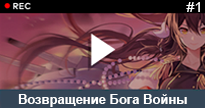
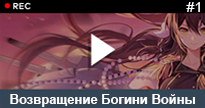
11
111

Changed region(s): [[0.0293, 0.8611, 0.9659, 1.0]]

diff --git a/the_war_god_return/index.html b/the_war_god_return/index.html
@@ -16,7 +16,7 @@
 <img src="../img/other/bbh.png" width="20" height="20" alt="bbh" class="on">
 На главную
 </a>    
-    <h1 class="title">Возвращение Бога Войны</h1>
+    <h1 class="title">Возвращение Богини Войны</h1>
     <img src="./img/head.png" alt=""><br>
     </div>
 </header>
@@ -30,7 +30,7 @@
 <div class="main">
 
 	 <div class="chapter" id="part1"> <!-- начало главы --> 
-  	<p class="title-1" >Возвращение Бога Войны</p>
+  	<p class="title-1" >Возвращение Богини Войны</p>
     <img class="pict1" src="../img/bg/bg10.png" alt="bg28p">
       <table class="mainchapter background11">			
       <tr>
@@ -73,6 +73,200 @@
       <td class="words blob"><p>Ой, извини! Это просто вырвалось у меня само собой... В любом случае, всем кораблям приготовиться к бою!</p></td>
     <td class="portgreen blob">Дзуйкаку<br><img src="../img/port/sakura/zuik1.png"  alt="Дзуйкаку"></td>
     </tr>
+    <tr>
+      <td class="port"></td>
+      <td class="words blob"><p>... ... ...</p></td>
+    <td class="port"></td>
+    </tr>
+    <tr>
+     <td class="portgreen blob">Атаго<br><img src="../img/port/sakura/atag1.png"  alt="Атаго"></td>
+      <td class="words blob"><p>Боже мой, после всех этих разговоров о Сиренах, обладающих силой Посейдона, это всё на что они спобобны...</p></td>
+      <td class="port"></td>
+    </tr>
+    <tr>
+      <td class="port"></td>
+      <td class="words blob"><p>Достойный конец для этих бездушных оболочек...</p><p>Неправедные падут от моего клинка!</p></td>
+    <td class="portgreen blob">Такао<br><img src="../img/port/sakura/taka1.png"  alt="Такао"></td>
+    </tr>
+    <tr>
+     <td class="portgreen blob">Сёкаку<br><img src="../img/port/sakura/shouk1.png"  alt="Сёкаку"></td>
+      <td class="words blob"><p>Фух... Слава богу, это были всего лишь Пешки массового производства... Не хотела бы я встретиться с одним из их лидеров.</p></td>
+      <td class="port"></td>
+    </tr>
+    <tr>
+     <td class="port"></td>
+      <td class="words blob"><p>Внимание, впереди обнаружена крупная цель... Сигнал идентифицирован как... Тестер-α.</p></td>
+      <td class="portgreen blob">Аянами<br><img src="../img/port/sakura/ayan1.png"  alt="Аянами"></td>
+    </tr>
+    <tr>
+     <td class="portgreen blob">Сёкаку<br><img src="../img/port/sakura/shouk1.png"  alt="Сёкаку"></td>
+      <td class="words blob"><p>......</p></td>
+      <td class="port"></td>
+    </tr>
+    <tr>
+      <td class="port"></td>
+      <td class="words blob"><p>Да, сестренка... Было бы лучше, если бы ты помолчала..</p></td>
+    <td class="portgreen blob">Дзуйкаку<br><img src="../img/port/sakura/zuik1.png"  alt="Дзуйкаку"></td>
+    </tr>
+    <tr>
+     <td class="portred blob">Тестер-α<br><img src="../img/port/siren/test1.png"  alt="Тестер"></td>
+      <td class="words blob"><p>Так, так, кажется, у нас гости... Хотя я ожидала скорее увидеть кого либо из Азур Лэйн.</p></td>
+      <td class="port"></td>
+    </tr>
+    <tr>
+      <td class="port"></td>
+      <td class="words blob"><p>Ты тот самый "Создатель", о котором говорила Акаги?!</p></td>
+    <td class="portgreen blob">Дзуйкаку<br><img src="../img/port/sakura/zuik1.png"  alt="Дзуйкаку"></td>
+    </tr>
+    <tr>
+     <td class="portred blob">Тестер-α<br><img src="../img/port/siren/test1.png"  alt="Тестер"></td>
+      <td class="words blob"><p>Ахаха, я не Создатель. Я и мне подобные здесь просто для того, чтобы предложить человечеству, а также вашему виду, выбор.</p><p>Либо присоединяйтесь к нам и пожертвуйте настоящим в для развития эволюции, предотвратив неминуемую гибель в будущем...</p><p>Или отвергните перемены и идите по пути уничтожения, как вы и делали это раньше.</p></td>
+      <td class="port"></td>
+    </tr>
+    <tr>
+      <td class="port"></td>
+      <td class="words blob"><p>Прости, но мы не заинтересованы в сотрудничестве с такими, как ты. Возвращайся в ту бездну, из которой ты выползла!</p></td>
+    <td class="portgreen blob">Дзуйкаку<br><img src="../img/port/sakura/zuik1.png"  alt="Дзуйкаку"></td>
+    </tr>
+    <tr>
+     <td class="portred blob">Тестер-α<br><img src="../img/port/siren/test1.png"  alt="Тестер"></td>
+      <td class="words blob"><p>Мы многое узнали о вас за то время, что вы провели в Святилище. Действительно, мы уже собрали много интересных данных.</p><p>Но, к сожалению для вас, ваши нынешние "я" еще не превзошли результаты наших симуляций.</p><p>Ваши кубойдные души были сгенерированы тысячами и тысячами симуляций. Это суть вашего существования...</p><p>Ваша непоколебимая "душа" преисполнена уверенности, побуждающей вас отвергать то, что вы воспринимаете как "зло". И все же вам не хватает способности понять свою истинную природу...</p></td>
+      <td class="port"></td>
+    </tr>
+   <tr>
+      <td class="port"></td>
+      <td class="words blob"><p>Все, что ты делаешь, - это несешь чушь... Если ты хочешь битвы, то просто скажи это! Когда я закончу с тобой, может быть, в следующий раз ты останешься дома!</p></td>
+    <td class="portgreen blob">Дзуйкаку<br><img src="../img/port/sakura/zuik1.png"  alt="Дзуйкаку"></td>
+    </tr>
+    <tr>
+     <td class="portred blob">Тестер-α<br><img src="../img/port/siren/test1.png"  alt="Тестер"></td>
+      <td class="words blob"><p>Ахаха... Что ж, у нас здесь не каждый день бывают гости, так что, полагаю, пришло время провести еще один эксперимент.</p><p>Давай! Покажи мне, чего ты стоишь!</p></td>
+      <td class="port"></td>
+    </tr>
+      <tr>
+      <td class="port"></td>
+      <td class="words blob"><p>... ... ...</p></td>
+    <td class="port"></td>
+    </tr>
+   <tr>
+      <td class="portgreen blob">Аянами<br><img src="../img/port/sakura/ayan1.png"  alt="Аянами"></td>
+      <td class="words blob"><p>Нххх... Это выглядит... плохо...</p></td>
+   <td class="port"></td>
+    </tr>
+    <tr>
+     <td class="port"></td>
+      <td class="words blob"><p>С вас хватит? Эта подавляющая сила - плод эволюции... А теперь сдавайтесь, чтобы мы могли покончить с этим фарсом.</p></td>
+      <td class="portred blob">Тестер-α<br><img src="../img/port/siren/test1.png"  alt="Тестер"></td>
+    </tr>
+   <tr>
+     <td class="portgreen blob">Сёкаку<br><img src="../img/port/sakura/shouk1.png"  alt="Сёкаку"></td>
+      <td class="words blob"><p>Эти необычные самолеты... Они, должно быть, в 10, нет, в 100 раз прочнее наших...</p><p>А почти все наши самолеты уничтожены... Нам понадобится огневая мощь линкора, чтобы пробить броню этой Сирены...</p><p>...Дзуйкаку отступай. Я отвлеку Сирену. По крайней мере, одна из нас должна выбраться отсюда...</p></td>
+    <td class="port"></td>
+    </tr>
+    <tr>
+     <td class="port"></td>
+      <td class="words blob"><p>Разве ты не слышала меня, когда я сказала, что никого не собираюсь бросать?</p><p>Я останусь и буду драться до самого конца!</p></td>
+     <td class="portgreen blob">Дзуйкаку<br><img src="../img/port/sakura/zuik1.png"  alt="Дзуйкаку"></td>
+    </tr>
+    <tr>
+     <td class="portgreen blob">???<br><img src="../img/port/sakura/mika1.png"  alt="Микаса"></td>
+      <td class="words blob"><p>Хорошо сказано! Никогда не отступать, никогда не сдаваться - вот принцип Империи Сакуры!</p><p>Мне приятно слышать эти слова в наши дни... Я вижу, что флот был доверен умелым рукам!</p></td>
+      <td class="port"></td>
+    </tr>
+    <tr>
+     <td class="port"></td>
+      <td class="words blob"><p>Мы успели как раз вовремя. И мы должны поблагодарить за это самолеты-разведчики Сёкаку.</p></td>
+     <td class="portgreen blob">???<br><img src="../img/port/sakura/hiei1.png"  alt="Хиэй"></td>
+    </tr>
+    <tr>
+     <td class="portgreen blob">???<br><img src="../img/port/sakura/mika1.png"  alt="Микаса"></td>
+      <td class="words blob"><p>"Самолеты-разведчики" - так называют этих механических птиц в небе? ... Честное слово, как же изменились времена, ахахаха!</p></td>
+      <td class="port"></td>
+    </tr>
+    <tr>
+     <td class="port"></td>
+      <td class="words blob"><p>.. Разве это не...?</p></td>
+     <td class="portgreen blob">Сёкаку<br><img src="../img/port/sakura/shouk1.png"  alt="Сёкаку"></td>
+    </tr>
+    <tr>
+     <td class="portgreen blob">Дзуйкаку<br><img src="../img/port/sakura/zuik1.png"  alt="Дзуйкаку"></td>
+      <td class="words blob"><p>Этот флаг...</p><p>Это та, о ком я думаю?!</p></td>
+      <td class="port"></td>
+    </tr>
+  </table>
+  <img class="pict1" src="../img/bg/p/bg34.png" alt="">
+  <table class="mainchapter background1">
+    <tr>
+     <td class="portgreen blob">Дзуйкаку<br><img src="../img/port/sakura/zuik1.png"  alt="Дзуйкаку"></td>
+      <td class="words blob"><p>Бывший флагман Объединенного флота, сама Богиня войны!</p><p>Это Микаса!</p></td>
+      <td class="port"></td>
+    </tr>
+    <tr>
+      <td class="port"></td>
+      <td class="words blob"><p>А теперь, мои дети, покажите мне доблесть Империи Сакуры! Настоящая битва только началась!</p><p>Праведникам, которые молятся, Небеса даруют праведную помощь!</p><p>Наши действия здесь, руководствуясь нашими убеждениями и преданностью делу, приведут нас в будущее!</p><p>Сестра моя! Судьба нашей нации зависит от этой битвы!</p><p>Чистое небо и бушующие моря простираются так далеко, насколько хватает глаз...</p><p>Я - Микаса, Флагман Объединенного флота, выкованный заново!</p><p>Нападай, Сирена!</p></td>
+    <td class="portgreen blob">Микаса<br><img src="../img/port/sakura/mika1.png"  alt="Микаса"></td>
+    </tr>
+   </tr>
+      <tr>
+      <td class="port"></td>
+      <td class="words blob"><p>... ... ...</p></td>
+    <td class="port"></td>
+    </tr>
+ <tr>
+     <td class="portred blob">Тестер-α<br><img src="../img/port/siren/test1.png"  alt="Тестер"></td>
+      <td class="words blob"><p>*ВНИМАНИЕ: УРОВЕНЬ ПОВРЕЖДЕНИЙ КРИТИЧЕСКИЙ. СИСТЕМЫ УПРАВЛЕНИЯ РАЗРУШЕНЫ.*</p><p>Что?! Симуляции не выдавали такой результат!</p><p>Как мог древний, устаревший линкор так сделать это со мной?!</p></td>
+      <td class="port"></td>
+    </tr>
+    <tr>
+      <td class="port"></td>
+      <td class="words blob"><p>Орудие, которое попадает в цель при каждом выстреле, сражается на ровном месте против сотни орудий, попадающих в цель лишь в сотых долях от их числа.</p><p>Разница в огневой мощи между нами не является решающим фактором!</p></td>
+    <td class="portgreen blob">Микаса<br><img src="../img/port/sakura/mika1.png"  alt="Микаса"></td>
+    </tr>
+ <tr>
+     <td class="portred blob">Тестер-α<br><img src="../img/port/siren/test1.png"  alt="Тестер"></td>
+      <td class="words blob"><p>Очаровательно... Произошла ошибка в расчетах. На данный момент я прощаю вас и ухожу.</p><p>Я подготовила для вас путь к выходу отсюда.</p><p>Если вы надеетесь изменить историю, тогда дерзайте и пытайтесь.</p><p>Однако есть одна вещь, которую вы должны помнить: мы всегда следим за вами... Ахаха!</p></td>
+      <td class="port"></td>
+    </tr>
+    <tr>
+     <td class="port"></td>
+      <td class="words blob"><p>Подожди! Вернись!</p></td>
+     <td class="portgreen blob">Дзуйкаку<br><img src="../img/port/sakura/zuik1.png"  alt="Дзуйкаку"></td>
+    </tr>
+    <tr>
+     <td class="portgreen blob">Сёкаку<br><img src="../img/port/sakura/shouk1.png"  alt="Сёкаку"></td>
+      <td class="words blob"><p>Нет, Дзуйкаку! Нет смысла преследовать ее!</p></td>
+      <td class="port"></td>
+    </tr>
+    <tr>
+     <td class="port"></td>
+      <td class="words blob"><p>Хахаха! Тебе стоит прислушаться к ней, если только ты не горишь желанием расстаться с жизнью, которую я только что пощадила.</p><p>О, и в следующий раз, пожалуйста, заказывайте столик заранее, прежде чем приходить сюда, хорошо? Пока-пока, малыши~</p></td>
+     <td class="portred blob">Тестер-α<br><img src="../img/port/siren/test1.png"  alt="Тестер"></td>
+    </tr>
+  </table>
+  <table class="mainchapter background11">
+<tr>
+     <td class="portgreen blob">???</td>
+      <td class="words blob"><p>Итак, похоже, наша старая подруга вернулась.</p></td>
+      <td class="port"></td>
+    </tr>
+    <tr>
+     <td class="port"></td>
+      <td class="words blob"><p>... Богиня Войны Объединенного Флота? Её настойчивость не знает границ.</p></td>
+     <td class="portgreen blob">???</td>
+    </tr>
+<tr>
+     <td class="portgreen blob">???</td>
+      <td class="words blob"><p>Но, несмотря ни на что... мы не можем позволить им заполучить Создателя.</p></td>
+      <td class="port"></td>
+    </tr>
+    <tr>
+     <td class="port"></td>
+      <td class="words blob"><p>Если Империи Сакуры удастся прибрать эту силу к своим рукам...</p></td>
+     <td class="portgreen blob">???</td>
+    </tr>
+
+
+
    </table>
     </div> <!-- конец главы -->
 
@@ -213,7 +407,7 @@
       <table class="mainchapter background1">          
       <tr>
      <td class="portgreen blob">Хиэй<br><img src="../img/port/sakura/hiei1.png"  alt="Хиэй"></td>
-      <td class="words blob"><p>К сожалению, Харуна не смогла помочь, но я рада представить вам фуршет для этого банкета, приготовленный вашей покорной слугой. Все, пожалуйста, дайте отдых своим уставшим после битвы костям и развлекайтесь в свое удовольствие~</p></td>
+      <td class="words blob"><p>К сожалению, Харуна не может помочь в этот раз, но я рада представить вам фуршет для этого банкета, приготовленный вашей покорной слугой. Все, пожалуйста, дайте отдых своим уставшим после битвы костям и развлекайтесь в свое удовольствие~</p></td>
       <td class="port"></td>
     </tr>
     <tr>
